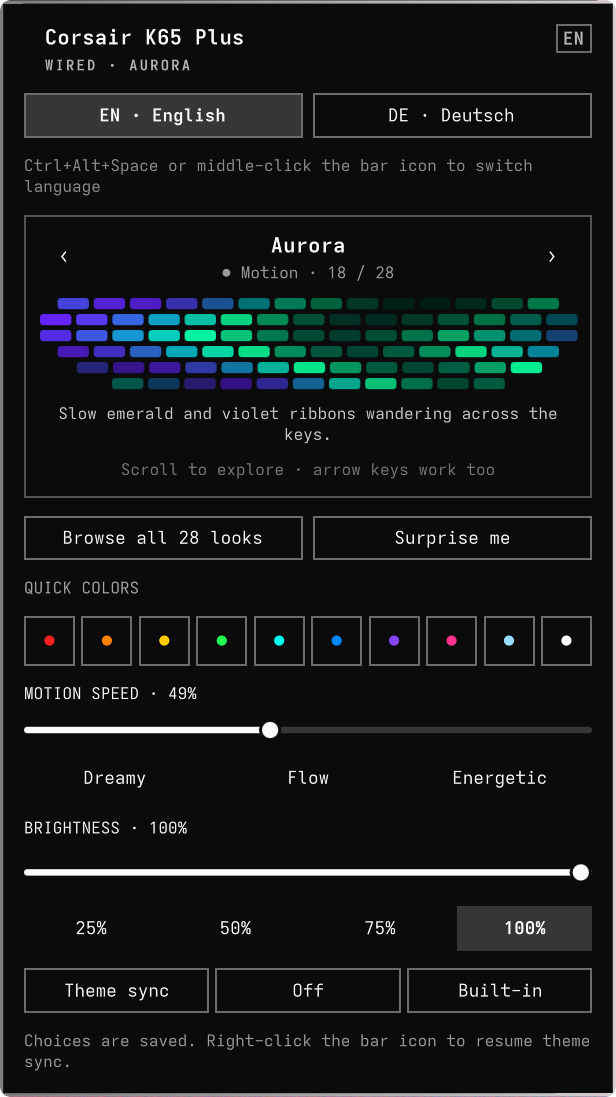
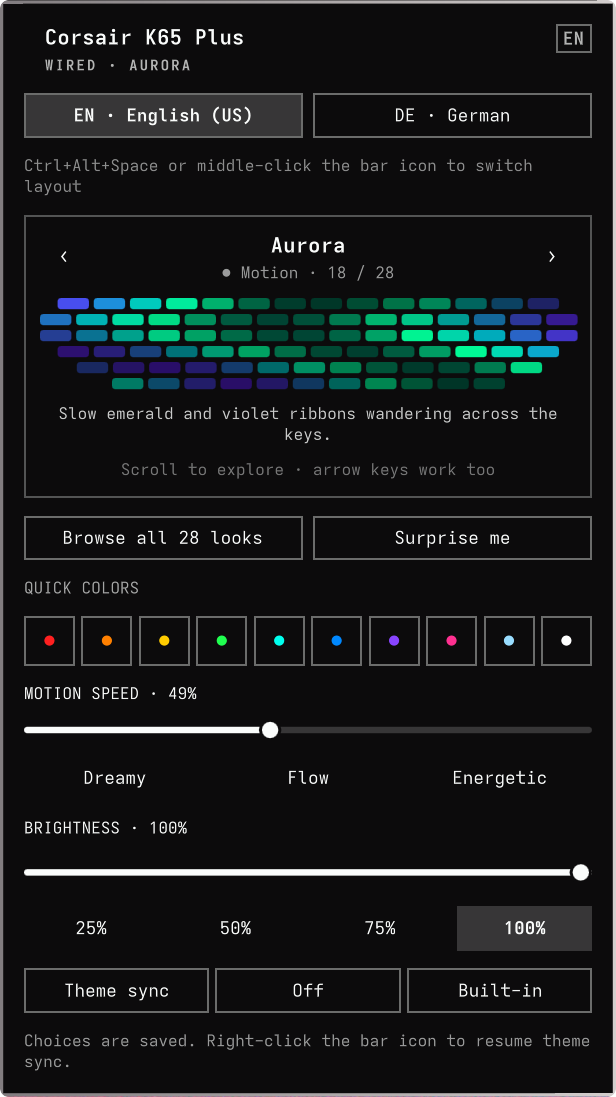
Recapture screenshots for 1.3.0 (generic layout labels)

diff --git a/assets/screenshots/README.md b/assets/screenshots/README.md
@@ -1,8 +1,8 @@
 # Screenshots
 
-Real captures of the Omacorsair popup, taken October 7, 2026 on the LG ultrawide
-(DP-2): 3840x1600, 160% scaling, Omarchy 4.0.4, theme "Last Horizon", on an
-empty workspace. Nothing was generated or edited. Controls and values are as
+Real captures of the Omacorsair 1.3.0 popup, taken October 7, 2026 on the LG ultrawide
+(DP-2): 3840x1600, 160% scaling, Omarchy 4.0.4, on an empty workspace (wallpaper
+and bar only). Nothing was generated or edited. Controls and values are as
 the plugin rendered them.
 
 Process: switch the focused monitor to an empty workspace, set the look with
@@ -14,7 +14,7 @@ were restored afterwards.
 
 | Panel (native size, transparent rounded corners) | Backdrop | Look | State |
 | --- | --- | --- | --- |
-| `panel-hero.png` (616x941) | `desktop-hero.jpg` | Synthwave | default view |
+| `panel-hero.png` (616x942) | `desktop-hero.jpg` | Synthwave | default view |
 | `panel-motion.png` (616x1097) | `desktop-motion.jpg` | Aurora | speed controls visible |
 | `panel-gallery.png` (616x1546) | `desktop-gallery.jpg` | Aurora | Browse all 28 looks expanded |
 

diff --git a/README.md b/README.md
@@ -11,7 +11,7 @@ wears one of 28 lighting looks, from one popup in the bar. Supports the wired
 
 **[Install](#installation)** · [Bar menu](#bar-menu) · [Lighting gallery](#lighting-gallery) · [Compatibility](#compatibility) · [Changelog](CHANGELOG.md)
 
-<a href="preview.png"><img src="preview.png" alt="The Omacorsair popup open on an Omarchy desktop: the Synthwave look in the gallery, with a miniature keyboard preview, quick colors, brightness, and English and German layout buttons." width="1000"></a>
+<a href="preview.png"><img src="preview.png" alt="The Omacorsair popup open on an Omarchy desktop: the Synthwave look in the gallery, with a miniature keyboard preview, quick colors, brightness, and keyboard layout buttons (EN, DE)." width="1000"></a>
 
 - **28 looks, 9 animations.** Scroll over the bar button or preview to flip through them.
 - **Theme sync.** Follows your Omarchy theme's `keyboard.rgb` automatically.
